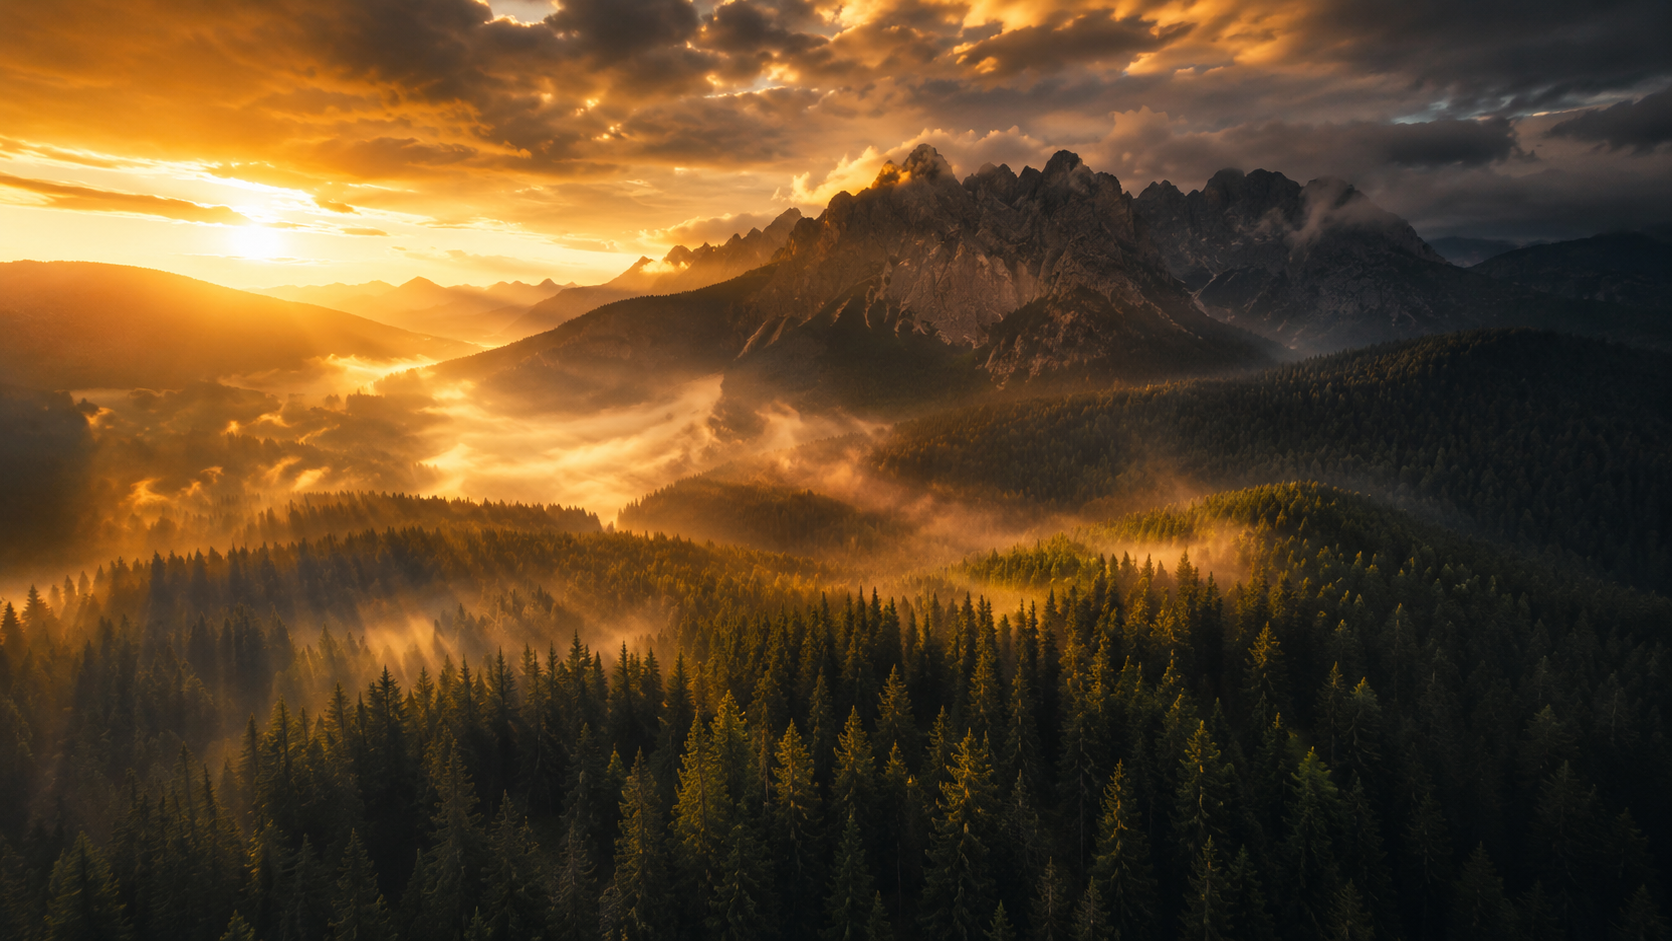
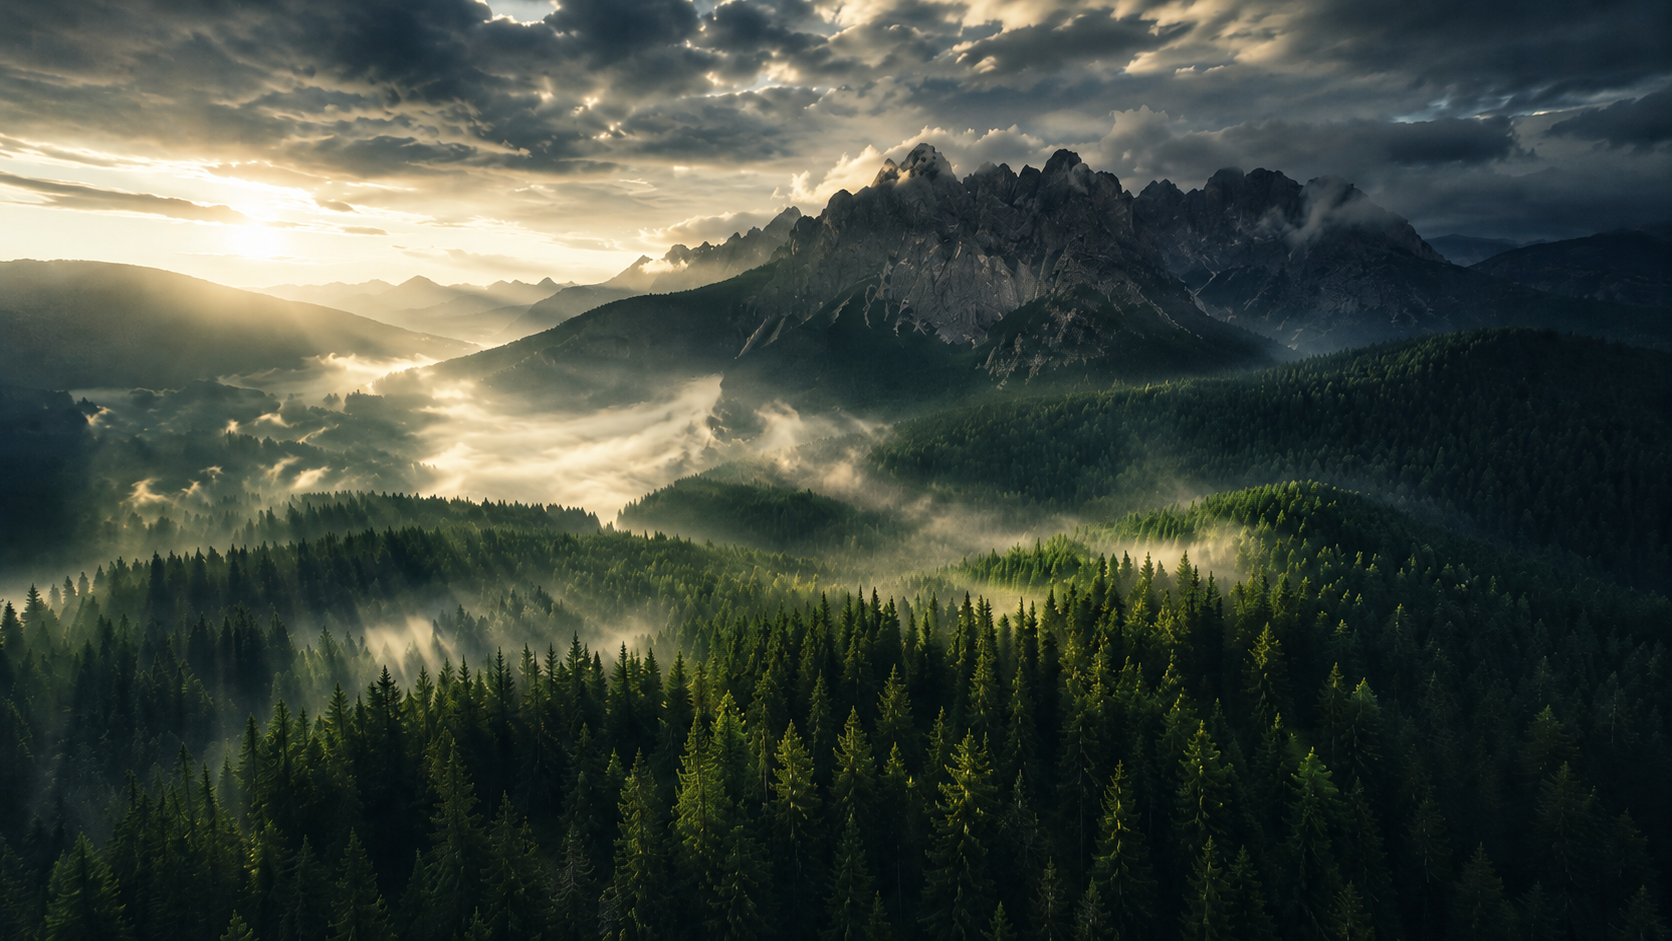
good

diff --git a/frontend/src/pages/HomePage.tsx b/frontend/src/pages/HomePage.tsx
@@ -143,17 +143,18 @@ export default function HomePage() {
         style={{ opacity: 0.18, willChange: "opacity" }}
       />
 
+      {/*
+        4. Vignette — fixed so it has no element boundary to clip against (no hairline seam).
+           Darkens the center of the viewport where the hero text lives; fades to nothing
+           before the form section, so the card below is unaffected.
+      */}
+      <div
+        className="pointer-events-none fixed inset-0 -z-10"
+        style={{ background: "radial-gradient(ellipse 80% 60% at 50% 45%, rgba(6,16,11,0.48) 0%, rgba(6,16,11,0.06) 58%, transparent 75%)" }}
+      />
+
       {/* ── Hero — fully transparent, image/scrim show through ── */}
       <section className="relative flex min-h-dvh flex-col items-center justify-center">
-        {/*
-          Centered radial vignette — darkens exactly where the text lives,
-          fades to nothing at the edges so the photo still shows beautifully.
-          Classic cinema lighting trick: no hard edges, no card.
-        */}
-        <div
-          className="pointer-events-none absolute inset-0"
-          style={{ background: "radial-gradient(ellipse 72% 78% at 50% 50%, rgba(6,16,11,0.58) 0%, rgba(6,16,11,0.18) 55%, transparent 80%)" }}
-        />
 
         <div className="relative z-10 mx-auto max-w-3xl px-6 text-center animate-fade-in">
           <p

diff --git a/frontend/src/pages/ExplorePage.tsx b/frontend/src/pages/ExplorePage.tsx
@@ -52,7 +52,7 @@ export default function ExplorePage() {
   function toggleDuration(d: typeof DURATION_FILTERS[number]) { setDurationFilter(prev => prev?.label === d.label ? null : d); }
 
   return (
-    <div className="min-h-screen bg-cream-100 dark:bg-forest-900 text-forest-900 dark:text-cream-100 transition-colors">
+    <div className="min-h-screen bg-cream-100 dark:bg-forest-900 text-forest-900 dark:text-cream-100 transition-colors pt-16">
       {/* Page header */}
       <div className="border-b border-cream-200 dark:border-forest-800 bg-cream-50 dark:bg-forest-950 py-12">
         <div className="mx-auto max-w-6xl px-6">

diff --git a/frontend/src/pages/CommunityPage.tsx b/frontend/src/pages/CommunityPage.tsx
@@ -122,7 +122,7 @@ export default function CommunityPage() {
   }
 
   return (
-    <div className="min-h-screen bg-cream-100 dark:bg-forest-900 text-forest-900 dark:text-cream-100 transition-colors">
+    <div className="min-h-screen bg-cream-100 dark:bg-forest-900 text-forest-900 dark:text-cream-100 transition-colors pt-16">
       {/* Page header */}
       <div className="border-b border-cream-200 dark:border-forest-800 bg-cream-50 dark:bg-forest-950 py-12">
         <div className="mx-auto max-w-6xl px-6">

diff --git a/frontend/src/App.tsx b/frontend/src/App.tsx
@@ -26,7 +26,7 @@ function NavHeader() {
   }
 
   return (
-    <header className="sticky top-0 z-40 bg-cream-50/90 dark:bg-forest-950/90 backdrop-blur-md transition-colors">
+    <header className="fixed inset-x-0 top-0 z-40 bg-cream-50/90 dark:bg-forest-950/90 backdrop-blur-md transition-colors">
       <div className="mx-auto flex max-w-6xl items-center justify-between px-6 py-4">
         {/* Logo — left */}
         <Link to="/" className="flex items-center gap-2.5">
